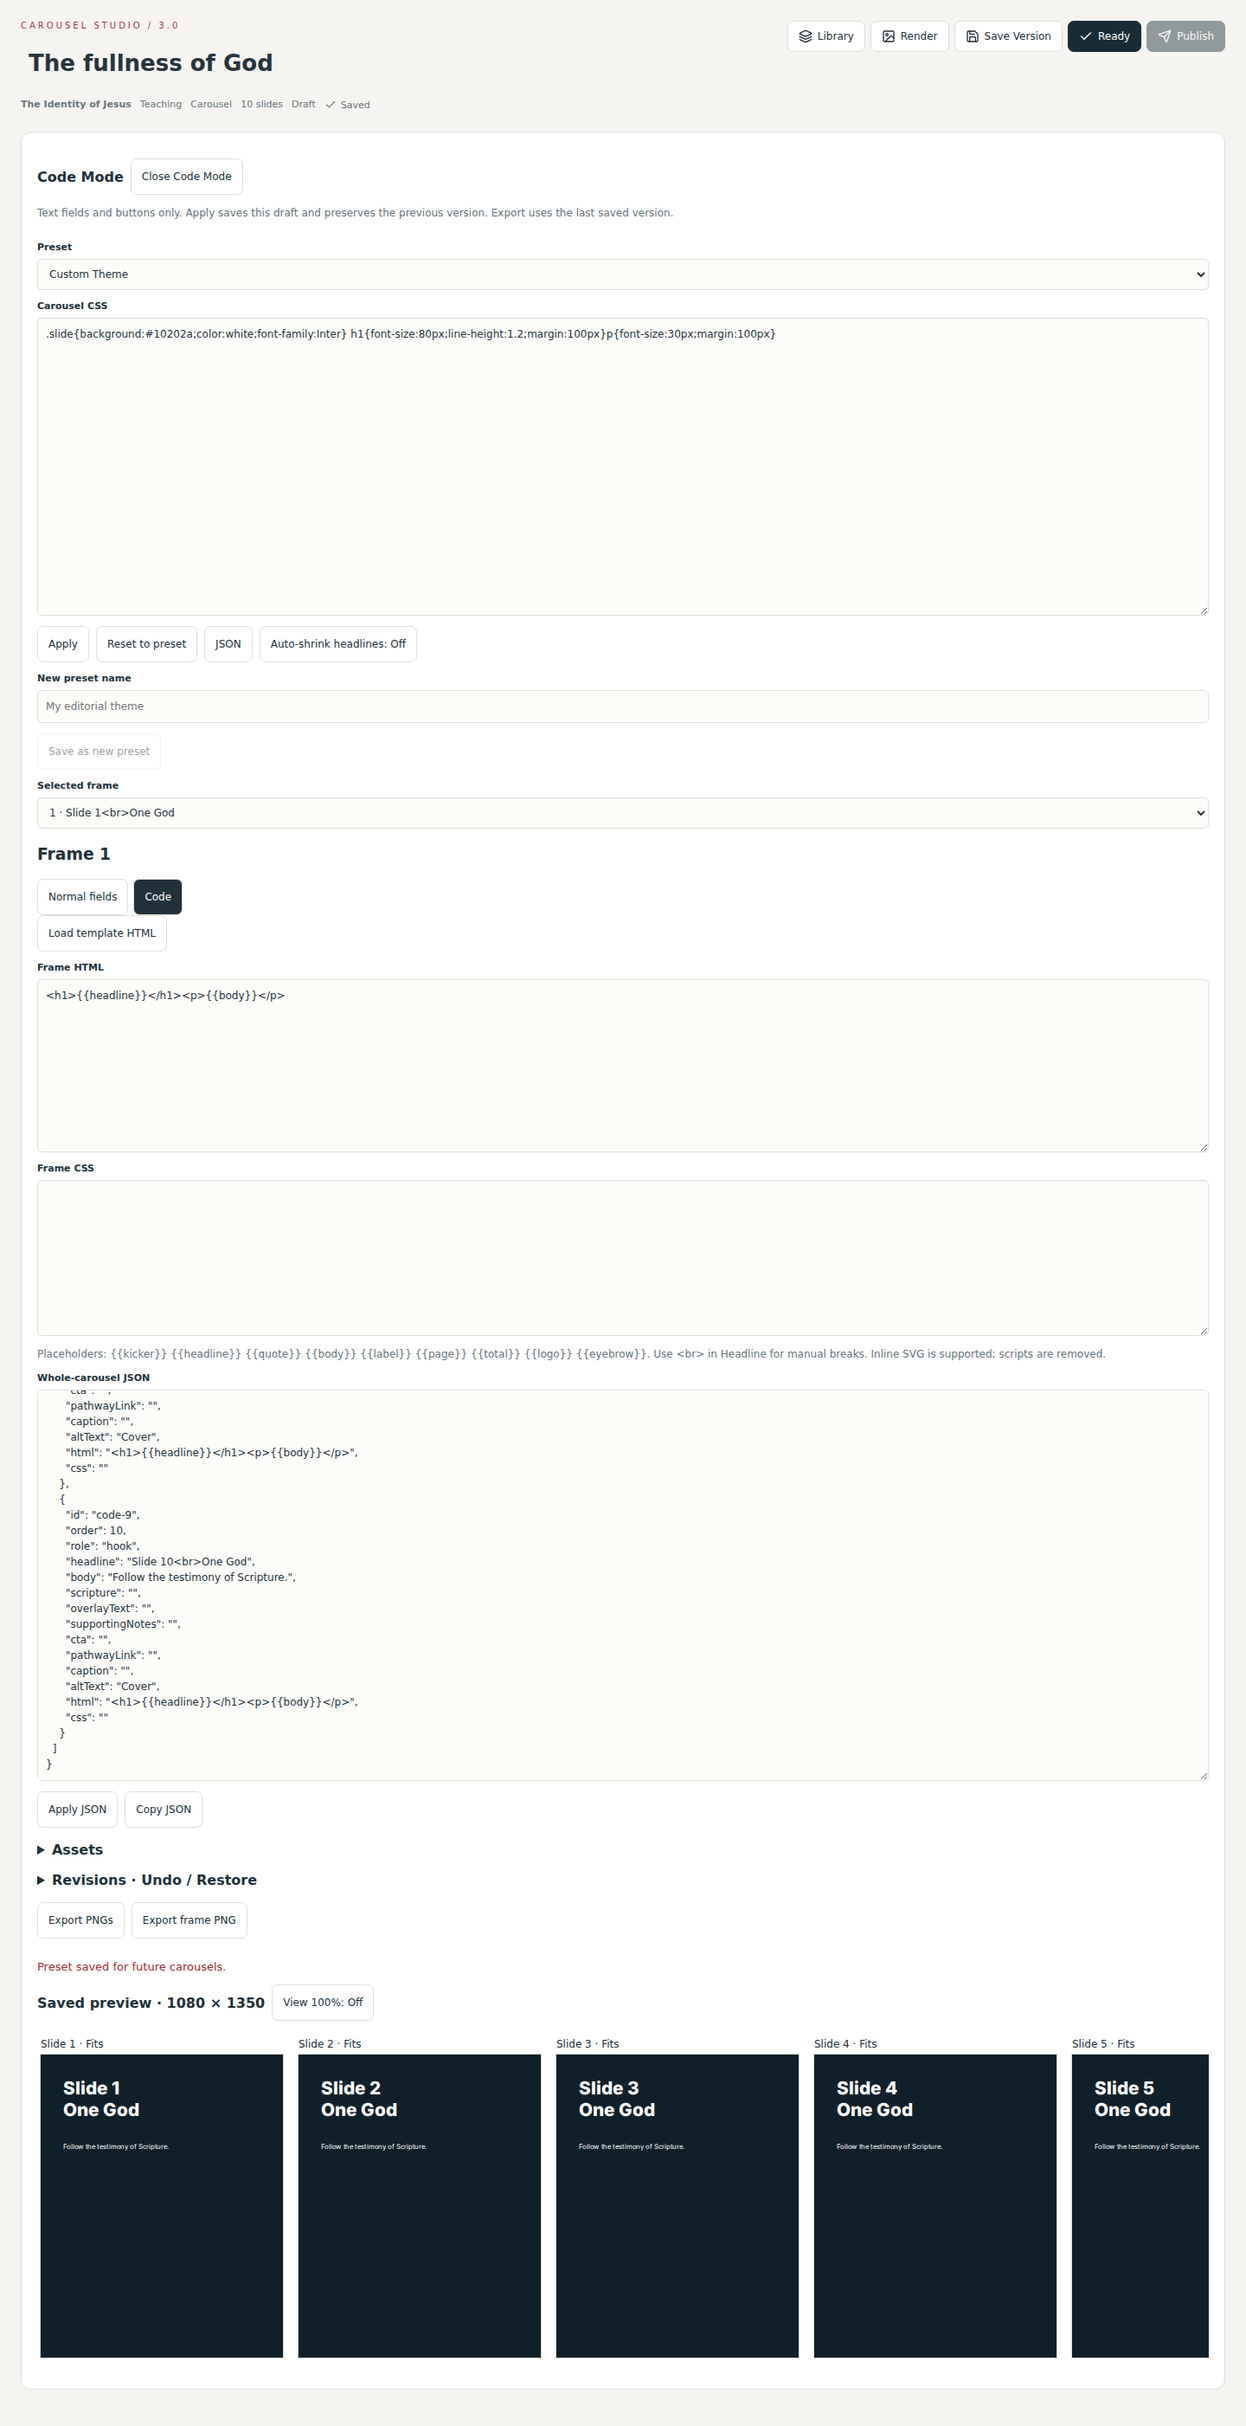
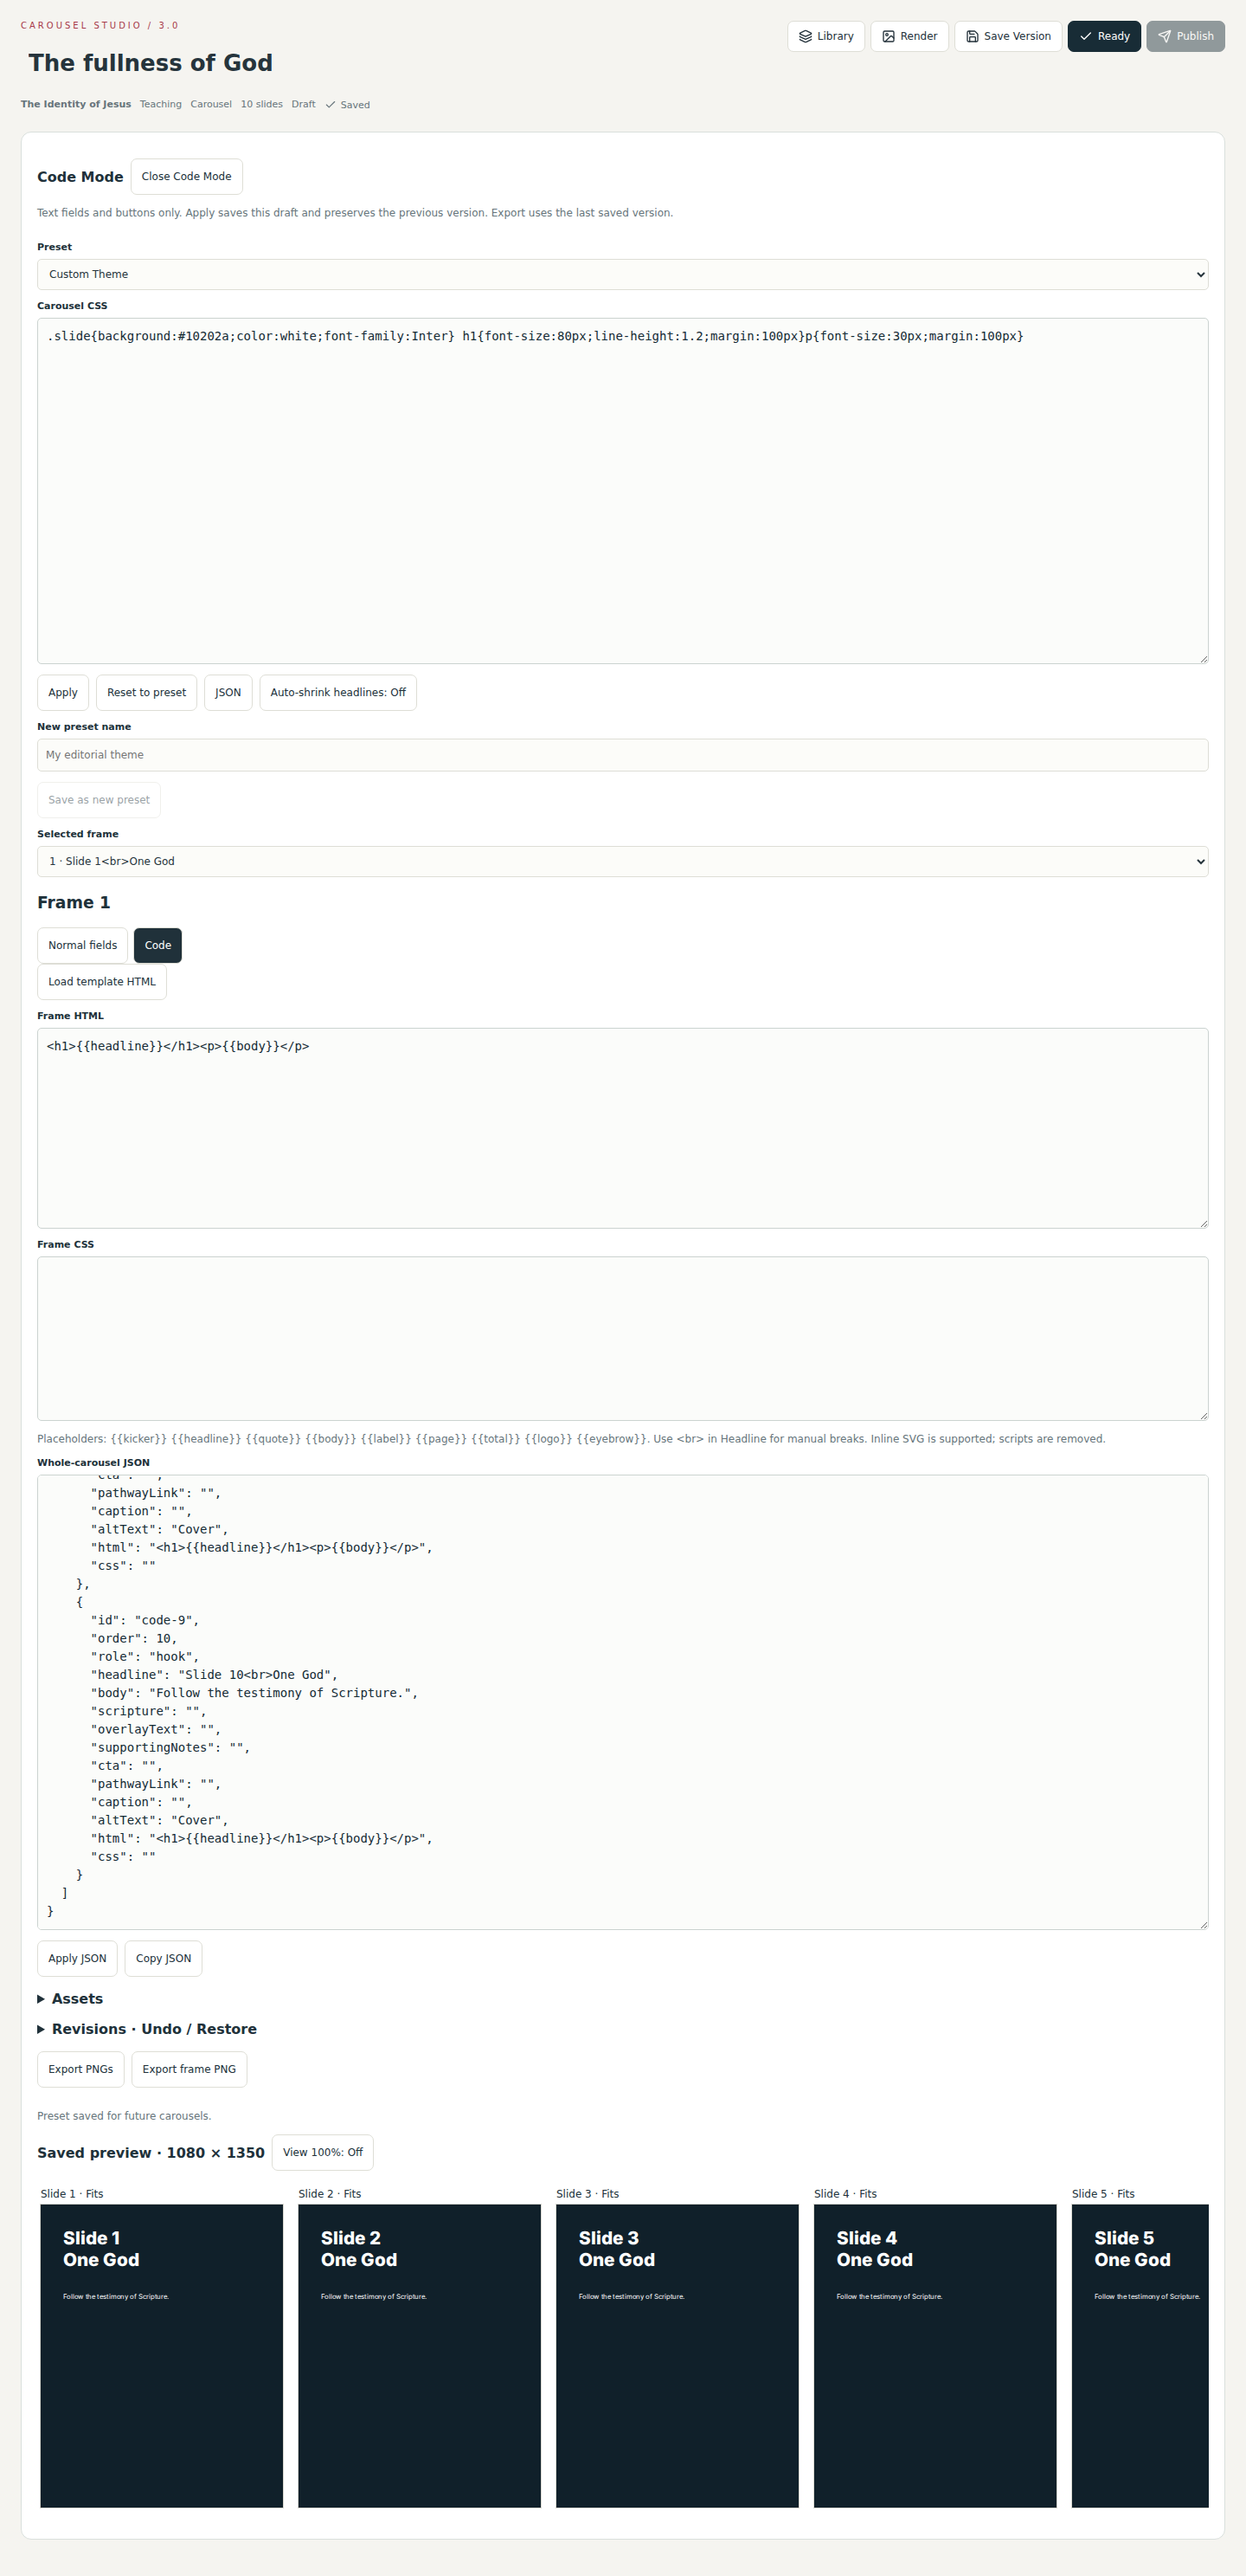
feat: finalize tested Carousel Studio Code Mode

diff --git a/src/carousel-code.ts b/src/carousel-code.ts
@@ -175,7 +175,7 @@ export function frameMarkup(
   );
 }
 // This is the only executable code in a preview/export. User scripts never enter the document.
-const HELPER = `(async()=>{await document.fonts.ready;await Promise.all([...document.images].map(i=>i.decode().catch(()=>{})));if(FIT){for(const e of document.querySelectorAll('[data-fit]')){let size=parseFloat(getComputedStyle(e).fontSize);const min=Math.max(60,Number(e.dataset.fitMin)||60);while(size>min&&(e.scrollWidth>e.clientWidth+1||e.scrollHeight>e.clientHeight+1)){size=Math.max(min,size-2);e.style.fontSize=size+'px';}}}const bad=[...document.querySelectorAll('.slide,.slide *')].filter(e=>{const s=getComputedStyle(e);if(s.display==='none'||e instanceof SVGElement)return false;return e.scrollHeight>e.clientHeight+1||e.scrollWidth>e.clientWidth+1;});window.__codeResult={overflow:bad.length>0,count:bad.length,elements:bad.map(e=>({tag:e.tagName,className:e.className,width:e.clientWidth,scrollWidth:e.scrollWidth,height:e.clientHeight,scrollHeight:e.scrollHeight})),fontsReady:true,resourceErrors:[...document.images].filter(i=>!i.naturalWidth).map(i=>i.src).concat([...document.fonts].filter(f=>f.status==='error').map(f=>f.family))};parent.postMessage({type:'ag-code-check',channel:CHANNEL,...window.__codeResult},'*');window.__codeReady=true;})();`;
+const HELPER = `(async()=>{window.__codeReady=false;window.__codeResult=null;await document.fonts.ready;await Promise.all([...document.images].map(i=>i.decode().catch(()=>{})));if(FIT){for(const e of document.querySelectorAll('[data-fit]')){let size=parseFloat(getComputedStyle(e).fontSize);const min=Math.max(60,Number(e.dataset.fitMin)||60);while(size>min&&(e.scrollWidth>e.clientWidth+1||e.scrollHeight>e.clientHeight+1)){size=Math.max(min,size-2);e.style.fontSize=size+'px';}}}const bad=[...document.querySelectorAll('.slide,.slide *')].filter(e=>{const s=getComputedStyle(e);if(s.display==='none'||e instanceof SVGElement)return false;return e.scrollHeight>e.clientHeight+1||e.scrollWidth>e.clientWidth+1;});window.__codeResult={overflow:bad.length>0,count:bad.length,elements:bad.map(e=>({tag:e.tagName,className:e.className,width:e.clientWidth,scrollWidth:e.scrollWidth,height:e.clientHeight,scrollHeight:e.scrollHeight})),fontsReady:true,resourceErrors:[...document.images].filter(i=>!i.naturalWidth).map(i=>i.src).concat([...document.fonts].filter(f=>f.status==='error').map(f=>f.family))};parent.postMessage({type:'ag-code-check',channel:CHANNEL,...window.__codeResult},'*');window.__codeReady=true;})();`;
 export function codeCss(css: string) {
   const sheet = postcss.parse(css);
   const imports: string[] = [];
@@ -235,7 +235,7 @@ const frameSchema = z.object({
   cta: z.string().max(500),
   pathwayLink: z.string().max(500),
   caption: z.string().max(2200),
-  altText: z.string().max(2000),
+  altText: z.string().max(1000),
   html: z.string().max(100000).default(""),
   css: z.string().max(100000).default(""),
   kicker: z.string().max(2000).optional(),

diff --git a/src/carousel-code-panel.tsx b/src/carousel-code-panel.tsx
@@ -1,5 +1,5 @@
 "use client";
-import { useEffect, useState } from "react";
+import { useEffect, useRef, useState } from "react";
 import type { CreativeEditorState, CreativeFrame } from "./creative-project";
 import {
   BUILTIN_CODE_ASSETS,
@@ -53,6 +53,7 @@ export function CarouselCodePanel({
   const [json, setJson] = useState("");
   const [showJson, setShowJson] = useState(false);
   const [message, setMessage] = useState("");
+  const hasOpened = useRef(false);
   const [failed, setFailed] = useState(false);
   const [working, setWorking] = useState(false);
   const [full, setFull] = useState(false);
@@ -64,6 +65,7 @@ export function CarouselCodePanel({
   >([]);
   useEffect(() => {
     const warn = (event: BeforeUnloadEvent) => {
+      if (!hasOpened.current) return;
       const saved =
         codeTheme(project.editorState) ||
         initialCodeTheme(
@@ -93,15 +95,24 @@ export function CarouselCodePanel({
   }
   useEffect(() => {
     if (!open) return;
-    const timer = setTimeout(
-      () =>
-        void refresh().catch(() =>
-          setMessage(
-            "Could not load presets or revisions. Retry by reopening Code Mode.",
-          ),
+    const timer = setTimeout(() => {
+      if (!hasOpened.current) {
+        setTheme(
+          codeTheme(project.editorState) ||
+            initialCodeTheme(
+              String(
+                project.editorState.visualSettings.style || "editorial-white",
+              ),
+            ),
+        );
+        hasOpened.current = true;
+      }
+      void refresh().catch(() =>
+        setMessage(
+          "Could not load presets or revisions. Retry by reopening Code Mode.",
         ),
-      0,
-    );
+      );
+    }, 0);
     return () => clearTimeout(timer);
   }, [open, project.id]); // eslint-disable-line react-hooks/exhaustive-deps
   function patchOverride(patch: Partial<typeof override>) {
@@ -415,7 +426,7 @@ export function CarouselCodePanel({
                           supportingNotes: 1600,
                           cta: 500,
                           caption: 2200,
-                          altText: 2000,
+                          altText: 1000,
                           pathwayLink: 500,
                         }[key]
                       }

diff --git a/src/carousel-code-preview.tsx b/src/carousel-code-preview.tsx
@@ -8,16 +8,18 @@ export function CodeFramePreview({
   total,
   theme,
   full = false,
+  onIssues,
 }: {
   frame: CreativeFrame;
   index: number;
   total: number;
   theme: CodeTheme;
   full?: boolean;
+  onIssues?: (issues: string[]) => void;
 }) {
   const host = useRef<HTMLDivElement>(null);
   const iframe = useRef<HTMLIFrameElement>(null);
-  const channel = useId();
+  const baseChannel = useId();
   const [width, setWidth] = useState(300);
   const [overflow, setOverflow] = useState(false);
   const [resourceError, setResourceError] = useState(false);
@@ -36,6 +38,10 @@ export function CodeFramePreview({
       observer.disconnect();
     };
   }, []);
+  let fingerprint = 2166136261;
+  for (const char of JSON.stringify([frame, index, total, theme, origin]))
+    fingerprint = Math.imul(fingerprint ^ char.charCodeAt(0), 16777619);
+  const channel = baseChannel + "-" + (fingerprint >>> 0);
   const doc = codeDocument(frame, index, total, theme, origin, channel);
   useEffect(() => {
     const timer = setTimeout(() => {
@@ -55,10 +61,13 @@ export function CodeFramePreview({
       setOverflow(Boolean(event.data.overflow));
       setResourceError(Boolean(event.data.resourceErrors?.length));
       setReady(true);
+      onIssues?.(
+        event.data.resourceErrors?.length ? ["Image or font unavailable"] : [],
+      );
     };
     window.addEventListener("message", listener);
     return () => window.removeEventListener("message", listener);
-  }, [channel]);
+  }, [channel, onIssues]);
   const scale = full ? 1 : Math.min(1, width / 1080);
   return (
     <div>

diff --git a/src/carousel-preview.tsx b/src/carousel-preview.tsx
@@ -52,4 +52,4 @@ function VectorCarouselPreview({input,onIssues}:{input:Omit<ArtworkInput,'brandA
   </div>;
 }
 
-export function CarouselPreview(props:{input:Omit<ArtworkInput,'brandAssets'>;onIssues?:(issues:string[])=>void}) {const {input}=props;return input.codeTheme?.enabled?<CodeFramePreview frame={input.frame} index={input.index} total={input.total} theme={input.codeTheme}/>:<VectorCarouselPreview {...props}/>;}
+export function CarouselPreview(props:{input:Omit<ArtworkInput,'brandAssets'>;onIssues?:(issues:string[])=>void}) {const {input}=props;return input.codeTheme?.enabled?<CodeFramePreview frame={input.frame} index={input.index} total={input.total} theme={input.codeTheme} onIssues={props.onIssues}/>:<VectorCarouselPreview {...props}/>;}

diff --git a/docs/carousel-code-mode/README.md b/docs/carousel-code-mode/README.md
@@ -60,7 +60,7 @@ The optional bearer-token REST API is not included. This release uses existing s
 
 Apply `20261026211306_carousel_code_presets.sql` through the normal Supabase migration process. It adds one table and owner index, enables RLS, revokes direct public/anonymous/authenticated access and grants server-role access. API permission checks restrict operations to content administrators and filter preset reads by creator.
 
-The migration is tested against isolated PGlite with role-access assertions. No existing project, asset, publication or approval row is altered. Reverting the application does not require dropping the additive table.
+The migration was tested against isolated PGlite with role-access assertions, then applied to the configured Apostolic Guide database. RLS and the absence of direct anonymous/authenticated grants were verified. No existing project, asset, publication or approval row is altered. Reverting the application does not require dropping the additive table.
 
 ## Verification
 
@@ -76,5 +76,7 @@ node scripts/carousel-browser-proof.mjs
 ```
 
 For a local Chromium installation, set `CAROUSEL_CHROMIUM_PATH` to its executable. Production uses the packaged Lambda Chromium binary. Local tests used Chromium 153.0.8010.0, including raw-pixel equality between an unscaled sandbox iframe and exported PNG. Browser rendering on other engines can differ in font rasterization; both paths use the same HTML/CSS and bundled fonts.
+
+Release checks: 467 tests passed, typecheck passed and the production build passed. Code Mode scoped lint has zero errors. Chromium 153 pixel and UI proofs passed.
 
 See `proof.json`, `ui-report.json`, the exported PNG and desktop/mobile screenshots. UI persistence tests use synthetic API responses. Actual signed-in persistence still requires an app session; server authorization was not bypassed to manufacture one. Repository-wide lint has existing failures outside this feature; changed-file lint is recorded separately in the PR.
